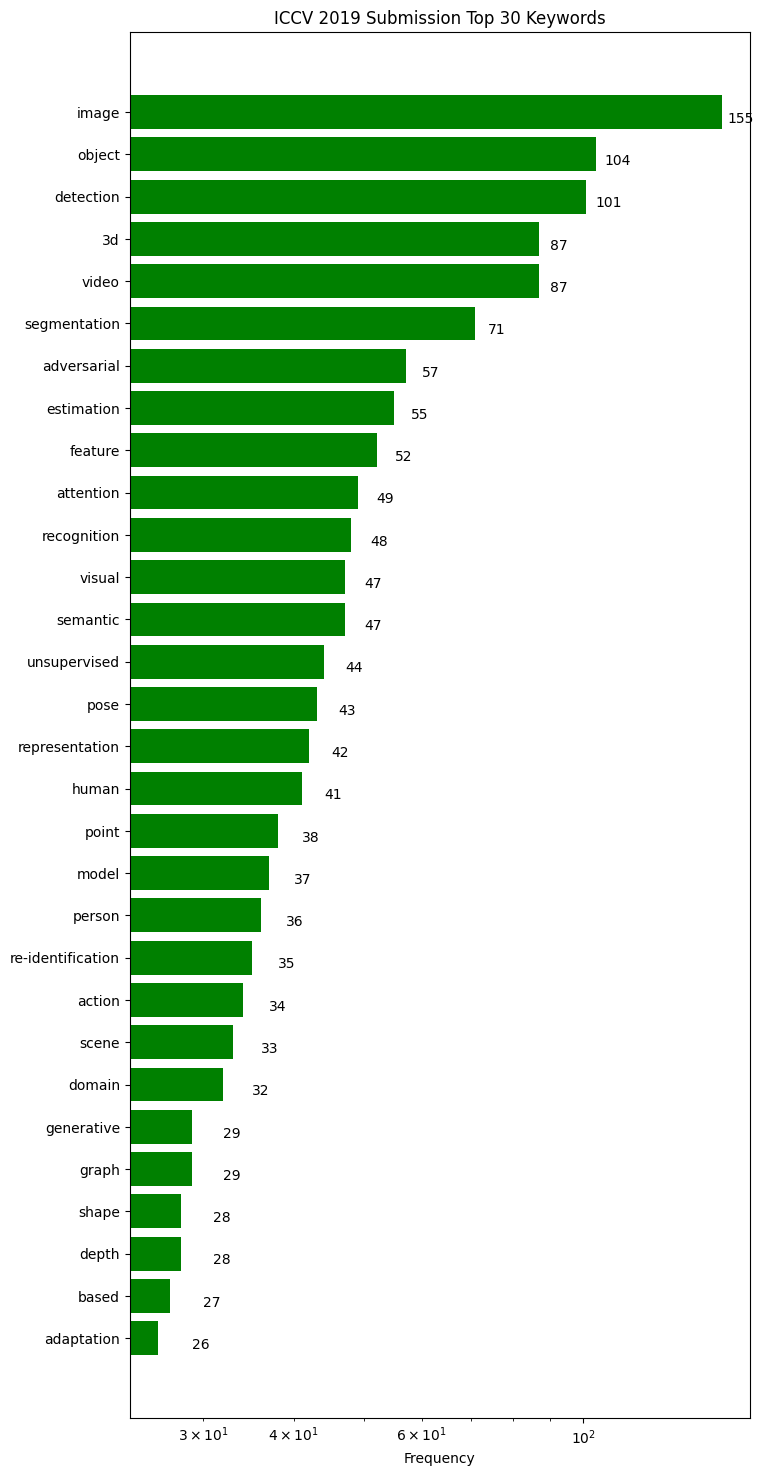
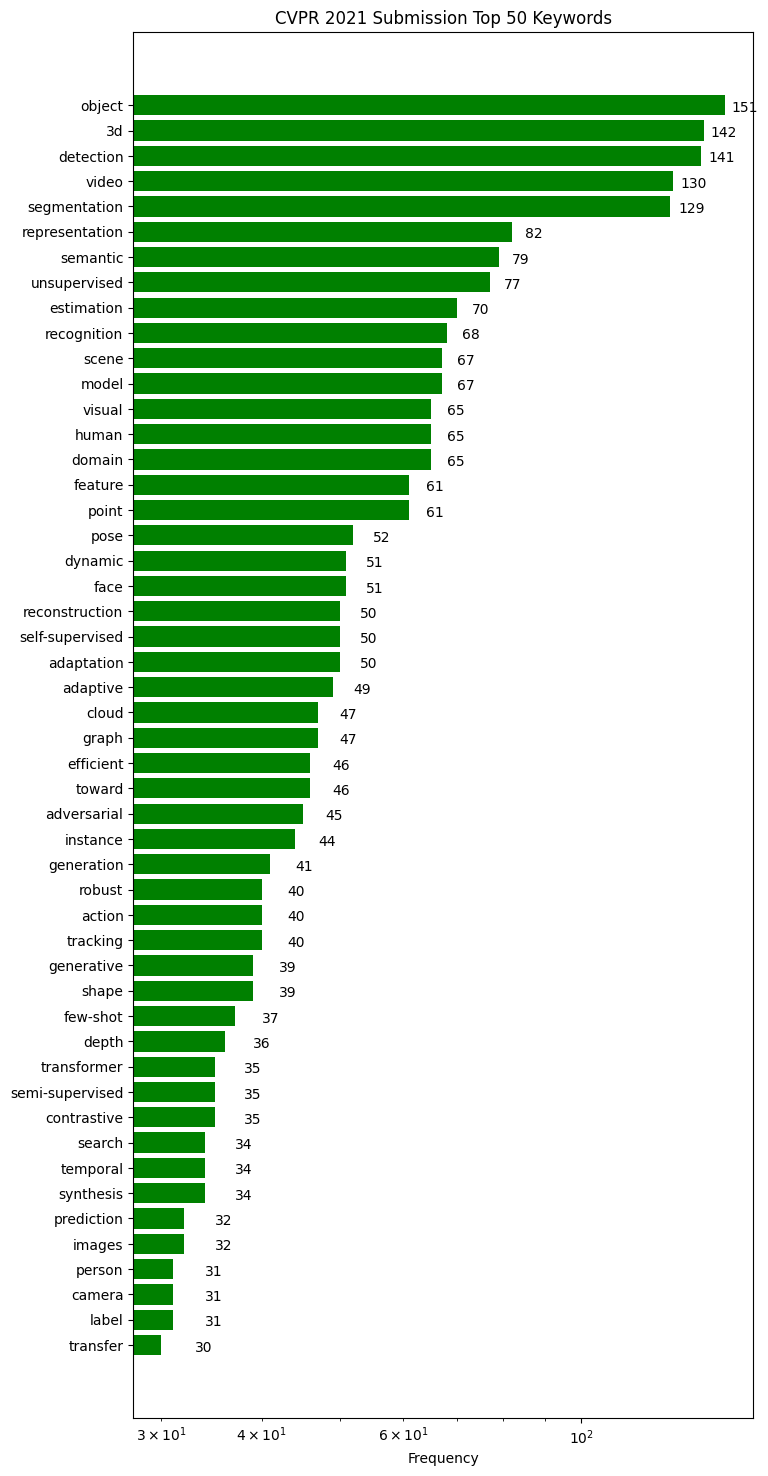
basic implement

diff --git a/conferenceui.py b/conferenceui.py
@@ -1,5 +1,6 @@
 from PySide6.QtWidgets import QApplication, QMessageBox
 from PySide6.QtUiTools import QUiLoader
+from PySide6.QtGui import QPalette, QBrush, QPixmap
 from pandas import read_csv
 import nltk
 nltk.download('stopwords')
@@ -30,15 +31,18 @@ class Stats:
         self.ui.pushButton_3.clicked.connect(self.add_word)
         #tab2 del banned word
         self.ui.pushButton_5.clicked.connect(self.del_word)
-        # #tab3 展示词语数量
-        # self.ui.pushButton_6.clicked.connect(self.handleCalc)
-        # #tab3 提交表单
-        # self.ui.pushButton_2.clicked.connect(self.handleCalc)
+        #tab3 展示词语数量
+        self.ui.pushButton_6.clicked.connect(self.change_number)
+        #tab3 提交表单
+        self.ui.pushButton_2.clicked.connect(self.handleCalc)
+        #二级下拉菜单 会议与年份对应
+        self.ui.comboBox_2.currentIndexChanged.connect(self.conference_menu)
 
     def handleCalc(self):
         year = self.ui.comboBox_1.currentText()
         conference = self.ui.comboBox_2.currentText()
-        drawgraph = DrawGraph(year,conference,self.banned,self.num_keyowrd)
+        self.num_keyword = self.ui.lineEdit_8.text()
+        drawgraph = DrawGraph(year,conference,self.banned,self.num_keyword)
         drawgraph.compute_word()
         drawgraph.frequent_graph()
         drawgraph.word_cloud_graph()
@@ -47,6 +51,7 @@ class Stats:
         self.ui.label.update()
         self.ui.label.repaint()
         self.ui.tabWidget.update()
+        self.graph_display()
     
     def add_word(self):
         word_obj = self.ui.lineEdit_4.text()
@@ -58,13 +63,11 @@ class Stats:
         word_obj = self.ui.lineEdit_7.text()
         if(word_obj in self.banned):
             self.banned.remove(word_obj)
-        print(word_obj)
-        print(self.banned)
         self.display_word()
 
     def change_number(self):
         word_number = self.ui.lineEdit_8.text()
-        self.num_keyowrd = word_number
+        self.num_keyword = word_number
 
     def display_word(self):
         self.ui.textBrowser.clear()
@@ -73,14 +76,34 @@ class Stats:
         self.cursot = self.ui.textBrowser.textCursor()
         self.ui.textBrowser.moveCursor(self.cursot.End)
         QApplication.processEvents()
+    
+    def conference_menu(self):
+        conference_index= self.ui.comboBox_2.currentIndex()
+        self.ui.comboBox_1.clear()
+        if(conference_index == 0):
+            years = {'2021'}
+            self.ui.comboBox_1.addItems(years)
+        if(conference_index == 1):
+            years = {'2019','2021'}
+            self.ui.comboBox_1.addItems(years)
+        if(conference_index == 2):
+            years = {'2020','2021','2022'}
+            self.ui.comboBox_1.addItems(years)
+        
+    def graph_display(self):
+        frequent = QPixmap('frequent.png')
+        self.ui.label.setPixmap(frequent)
+        wordcloud = QPixmap('wordcloud.png')
+        self.ui.label_2.setPixmap(wordcloud)
+
 
 class DrawGraph:
 
-    def __init__(self,year,conference,banned,num_keyowrd):
+    def __init__(self,year,conference,banned,num_keyword):
         self.year = year
         self.conference = conference
         self.banned = banned
-        self.num_keyowrd = num_keyowrd
+        self.num_keyword = num_keyword
 
     def compute_word(self):
         file_name = self.conference + '_' + self.year + '.csv'
@@ -89,7 +112,7 @@ class DrawGraph:
         #转换为list
         title = df.values.tolist()
 
-        self.banned = ['learning', 'network', 'neural', 'networks', 'deep', 'via', 'using', 'convolutional', 'single']
+        # self.banned = ['learning', 'network', 'neural', 'networks', 'deep', 'via', 'using', 'convolutional', 'single']
         
         self.keyword_list = []
 
@@ -119,8 +142,9 @@ class DrawGraph:
 
     def frequent_graph(self):
         # Show N most common keywords and their frequencies
-        self.num_keyowrd = 30 #FIXME
-        keywords_counter_vis = self.keyword_counter.most_common(self.num_keyowrd)
+        # self.num_keyword = 30 #FIXME
+        self.num_keyword = int(self.num_keyword)
+        keywords_counter_vis = self.keyword_counter.most_common(self.num_keyword)
 
         plt.rcdefaults()
         fig, ax = plt.subplots(figsize=(8, 18))
@@ -135,7 +159,7 @@ class DrawGraph:
         for i, v in enumerate(value):
             ax.text(v + 3, i + .25, str(v), color='black', fontsize=10)
         ax.set_xlabel('Frequency')
-        ax.set_title('{} {} Submission Top {} Keywords'.format(self.conference.upper(), self.year, self.num_keyowrd))
+        ax.set_title('{} {} Submission Top {} Keywords'.format(self.conference.upper(), self.year, self.num_keyword))
         plt.savefig('frequent.png', transparent=False, bbox_inches='tight')
 
     def word_cloud_graph(self):
